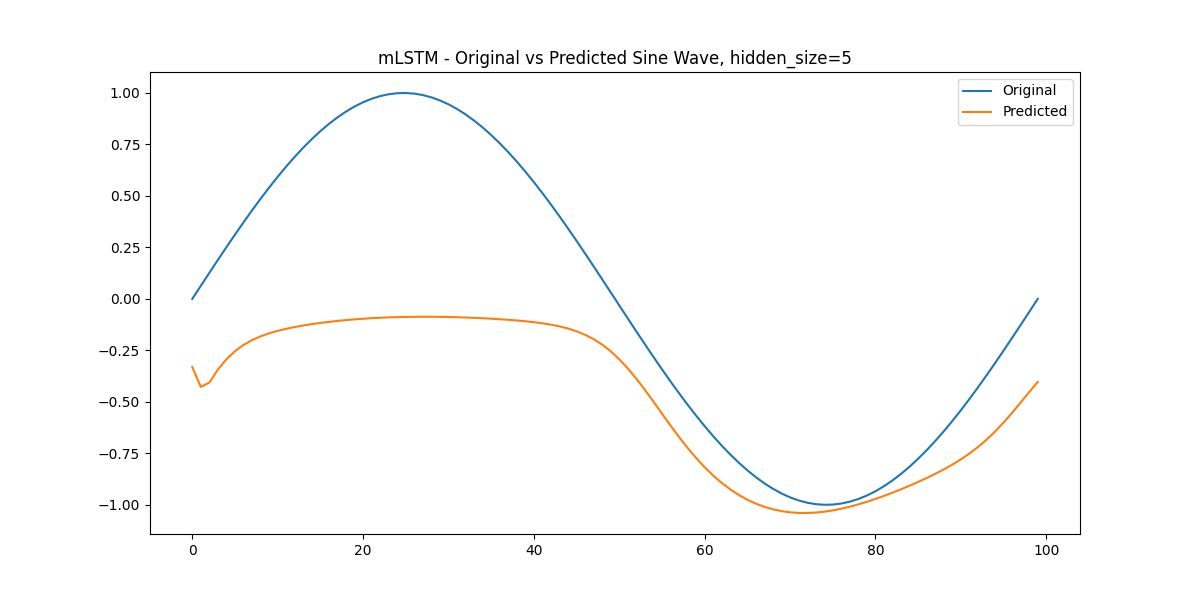
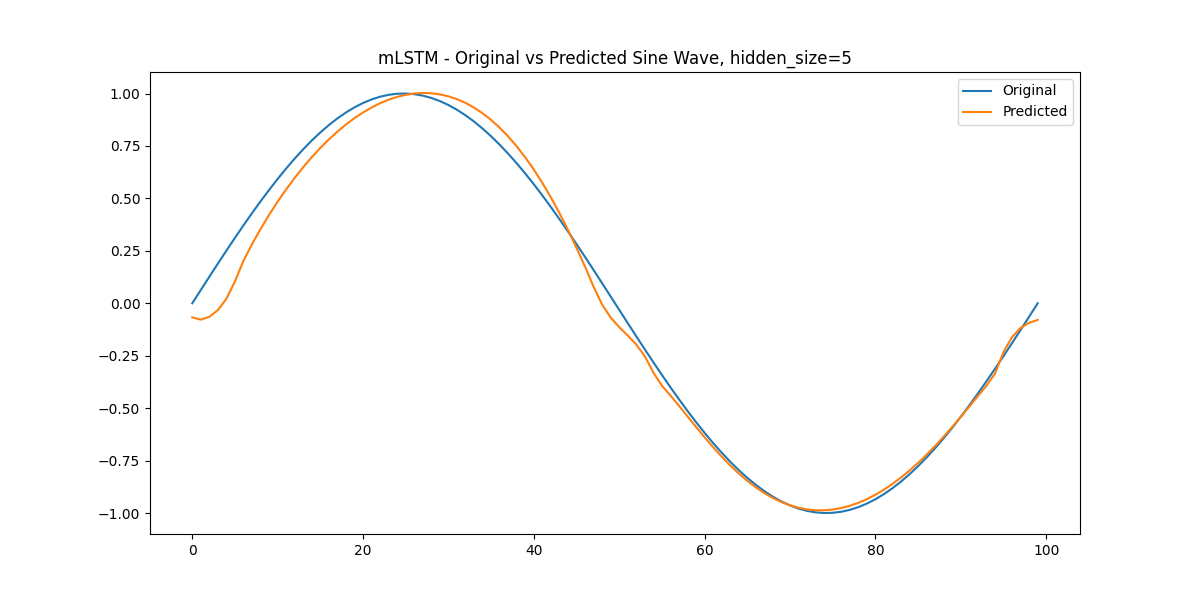
decrease learning rate

diff --git a/src/utils/test_sLSTM.py b/src/utils/test_sLSTM.py
@@ -7,17 +7,17 @@ from src.sLSTM import sLSTM
 from src.utils.sine_wave import generate_sine_wave
 
 input_size = 5
-hidden_size = 10
+hidden_size = 5
 mem_dim = 5
 seq_len = 100
-num_sequences = 1
+num_sequences = 2
 
 data = generate_sine_wave(
     seq_len=seq_len, num_sequences=num_sequences, input_size=input_size
 )
 
 model = sLSTM(input_size=input_size, hidden_size=hidden_size)
-optimizer = optim.Adam(model.parameters(), lr=0.001)
+optimizer = optim.Adam(model.parameters(), lr=0.01)
 criterion = nn.MSELoss()
 
 for epoch in range(500):

diff --git a/src/utils/test_mLSTM.py b/src/utils/test_mLSTM.py
@@ -19,7 +19,7 @@ data = generate_sine_wave(
 # [batch_size, seq_len, hidden_size/features]
 
 model = mLSTM(input_size=input_size, hidden_size=hidden_size, mem_dim=mem_dim)
-optimizer = optim.Adam(model.parameters(), lr=0.001)
+optimizer = optim.Adam(model.parameters(), lr=0.01)
 criterion = nn.MSELoss()
 
 for epoch in range(500):
